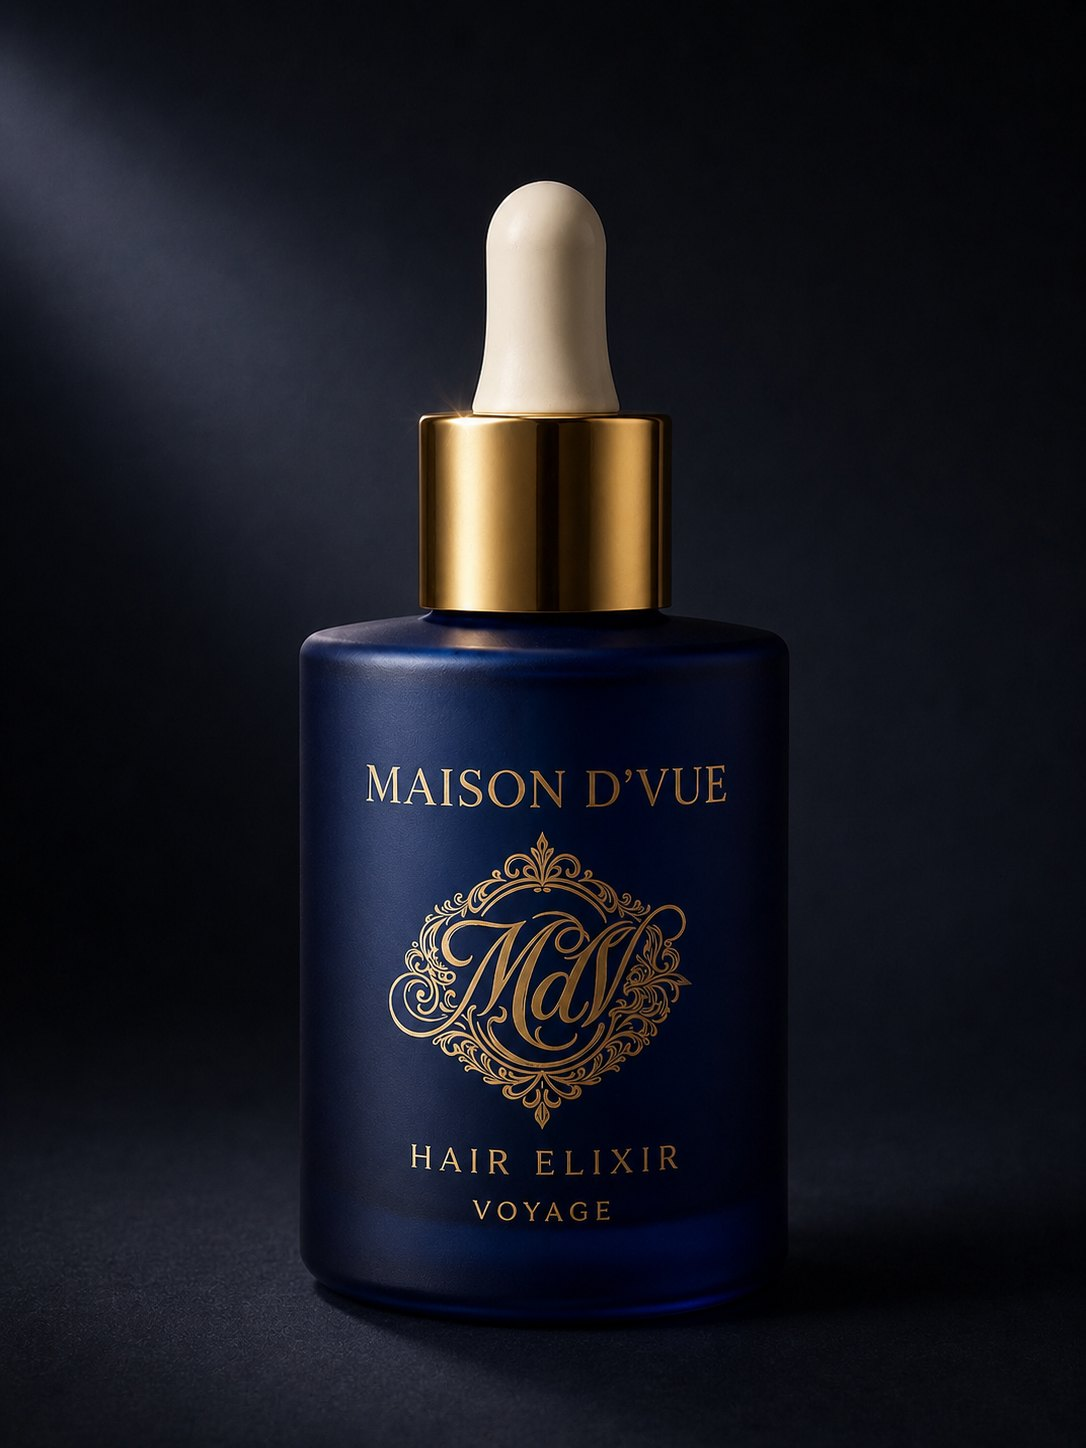
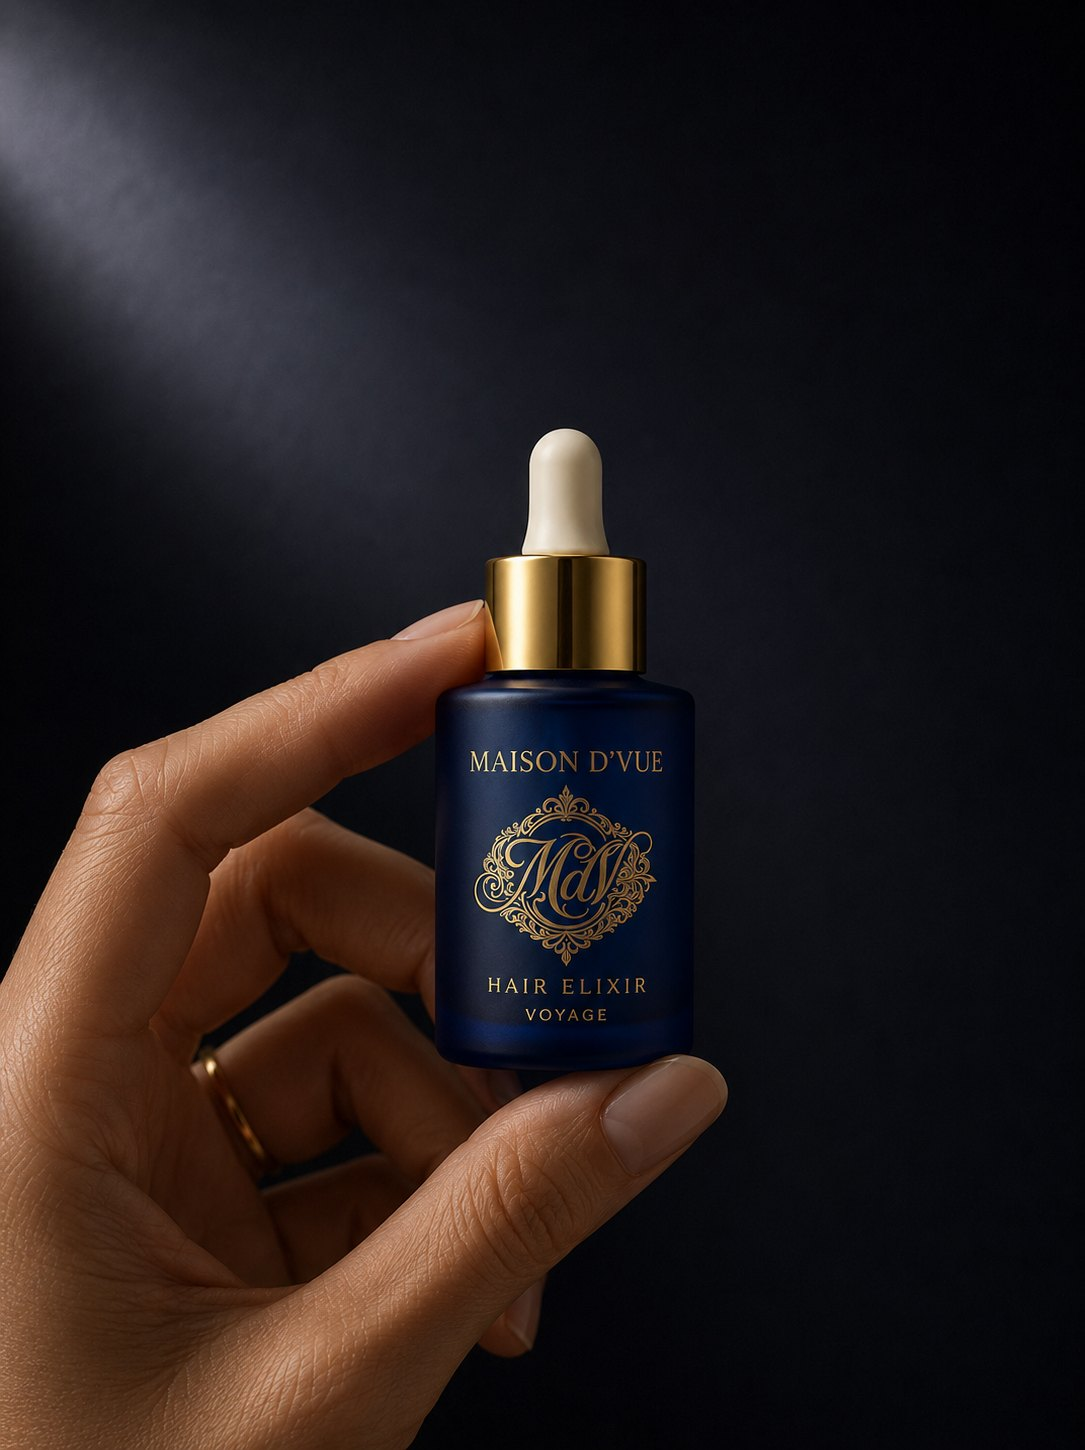
Swap Voyage to hand-held shot; remove redundant hero text
- Replace the Voyage card image with the hand-held 10ml shot
- Remove the hero title/tagline/Reserve overlay (redundant with the
  purchase section); keep the paparazzi intro video banner

diff --git a/product.html b/product.html
@@ -2893,13 +2893,6 @@
       aria-hidden="true"
       onerror="this.style.display='none';">
     </video>
-
-    <div class="hero-content">
-      <p class="hero-eyebrow">The House of Affinity Compositions<span class="tm">&trade;</span></p>
-      <h1 class="hero-title">Hair Elixir</h1>
-      <p class="hero-sub">A ritual of fourteen rare essences. Scented in &Acirc;me de Vue&trade;.</p>
-      <a href="#reserve" class="hero-cta">Reserve</a>
-    </div>
   </section>
 
   <!-- ═══ PURCHASE SECTION ═══ -->
@@ -2949,7 +2942,7 @@
 
         <div class="purchase-card">
           <div class="card-image">
-            <img src="maison-dvue-elixir-voyage.jpg" alt="The Voyage &mdash; 10ml MAISON D'VUE Hair Elixir travel size, cobalt frosted glass with matte gold cap, labeled Hair Elixir Voyage, on a dark studio background">
+            <img src="maison-dvue-elixir-voyage.jpg" alt="A hand holding the Voyage &mdash; 10ml MAISON D'VUE Hair Elixir travel size in cobalt frosted glass with matte gold cap, labeled Hair Elixir Voyage">
           </div>
           <div class="card-body">
             <p class="card-tag">The Voyage</p>
